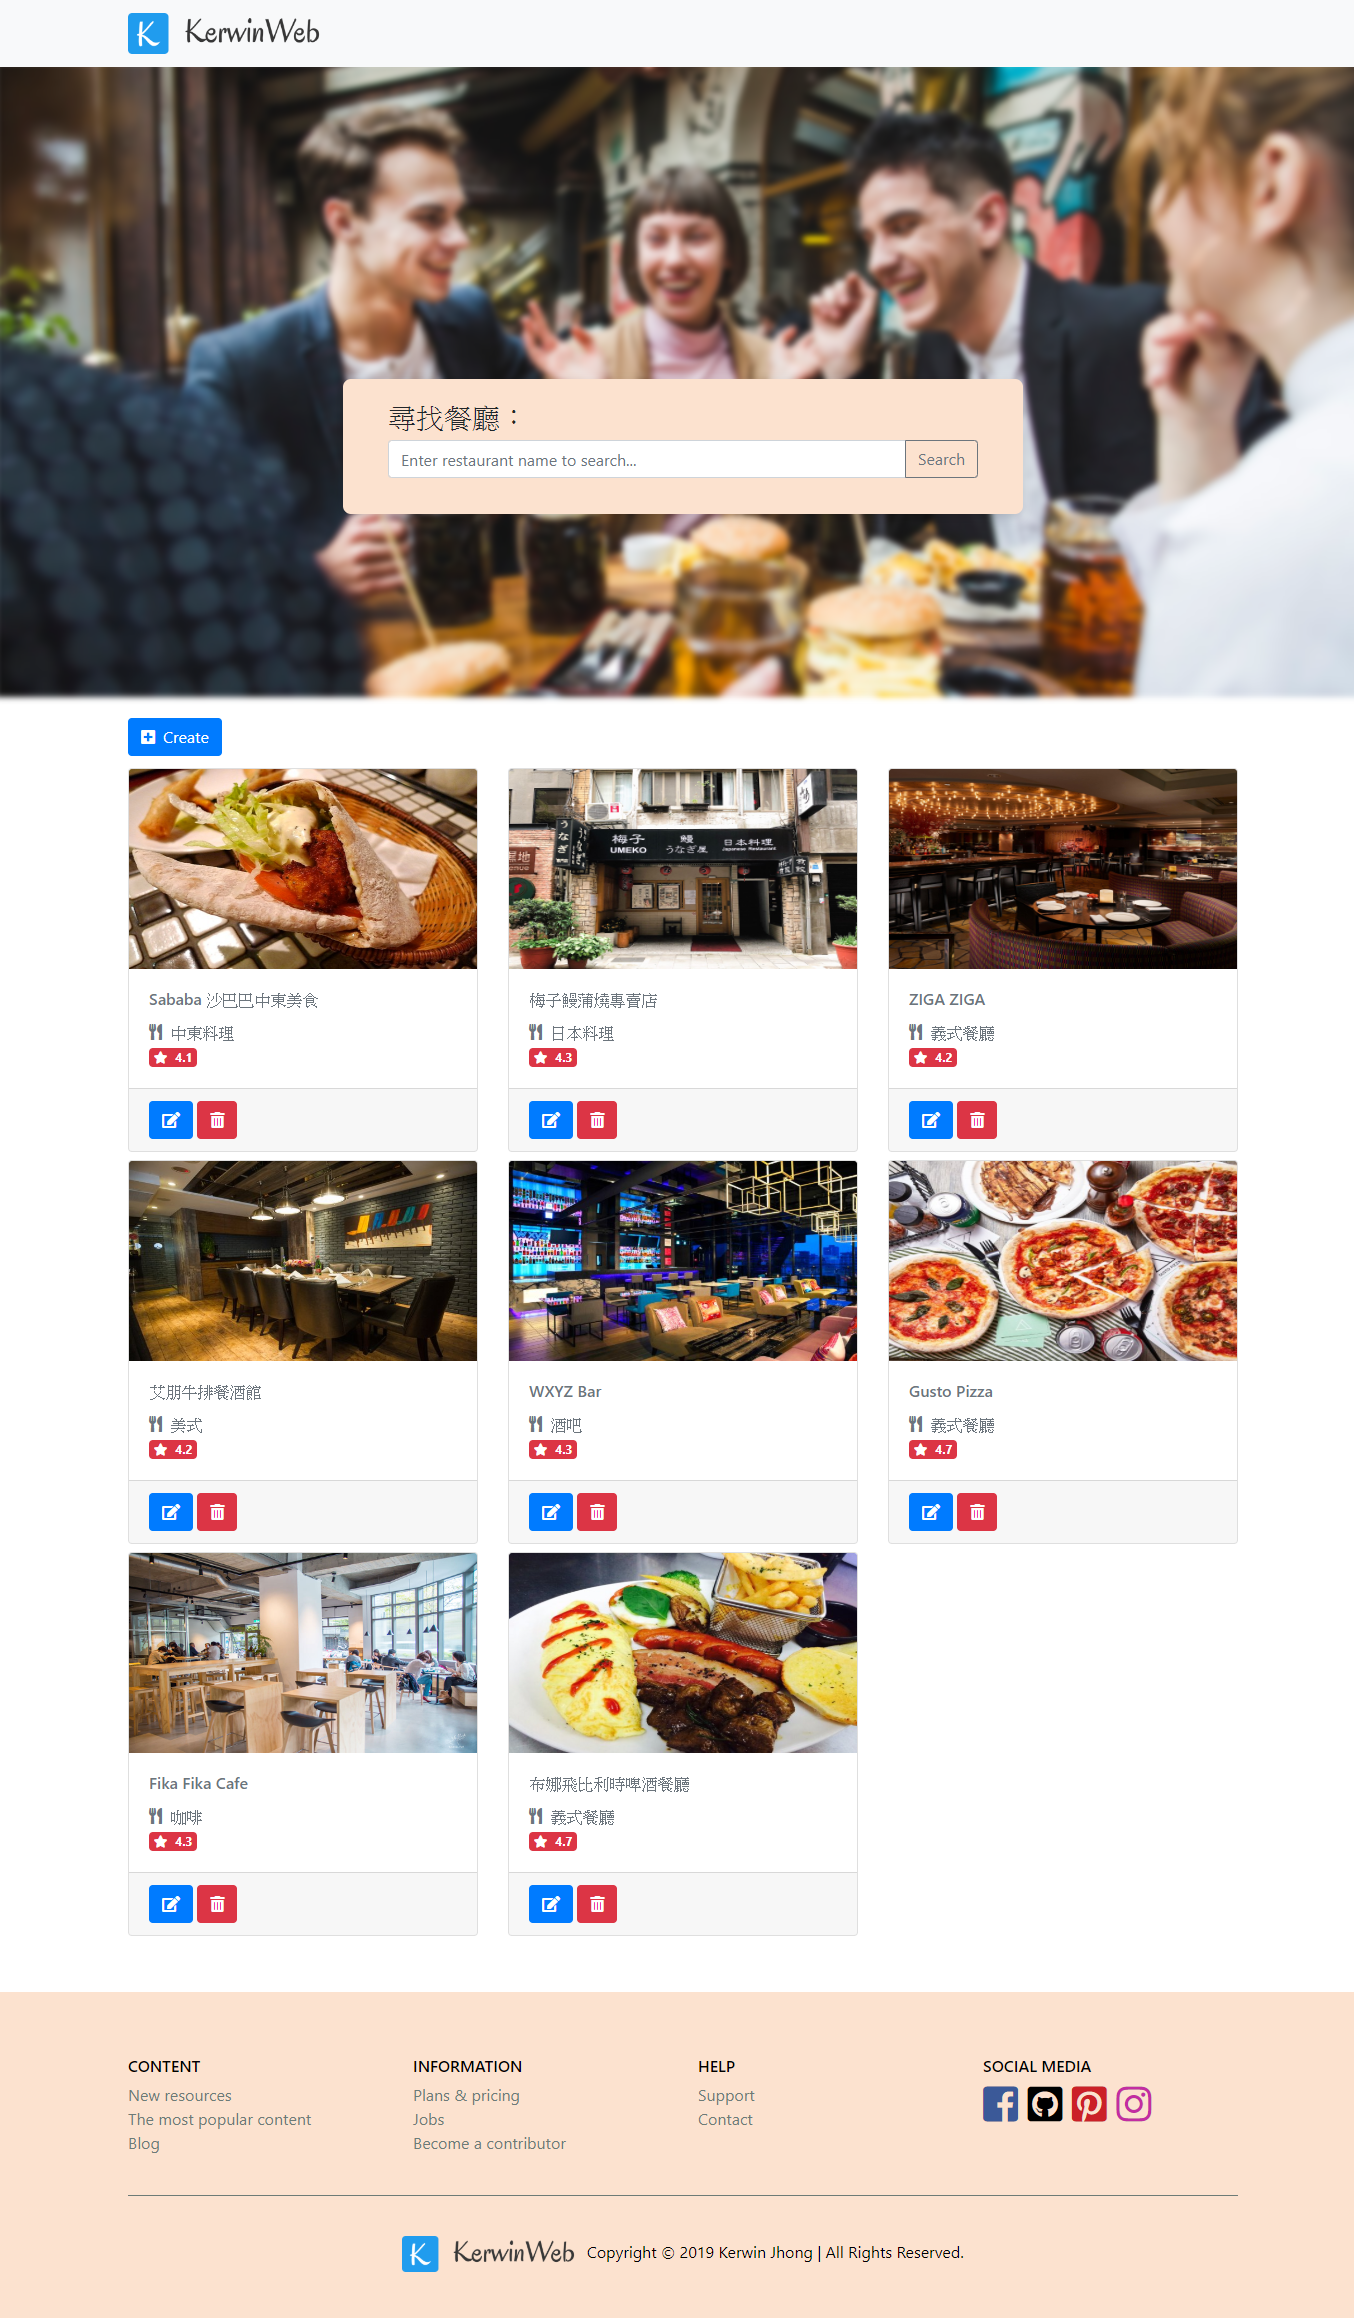
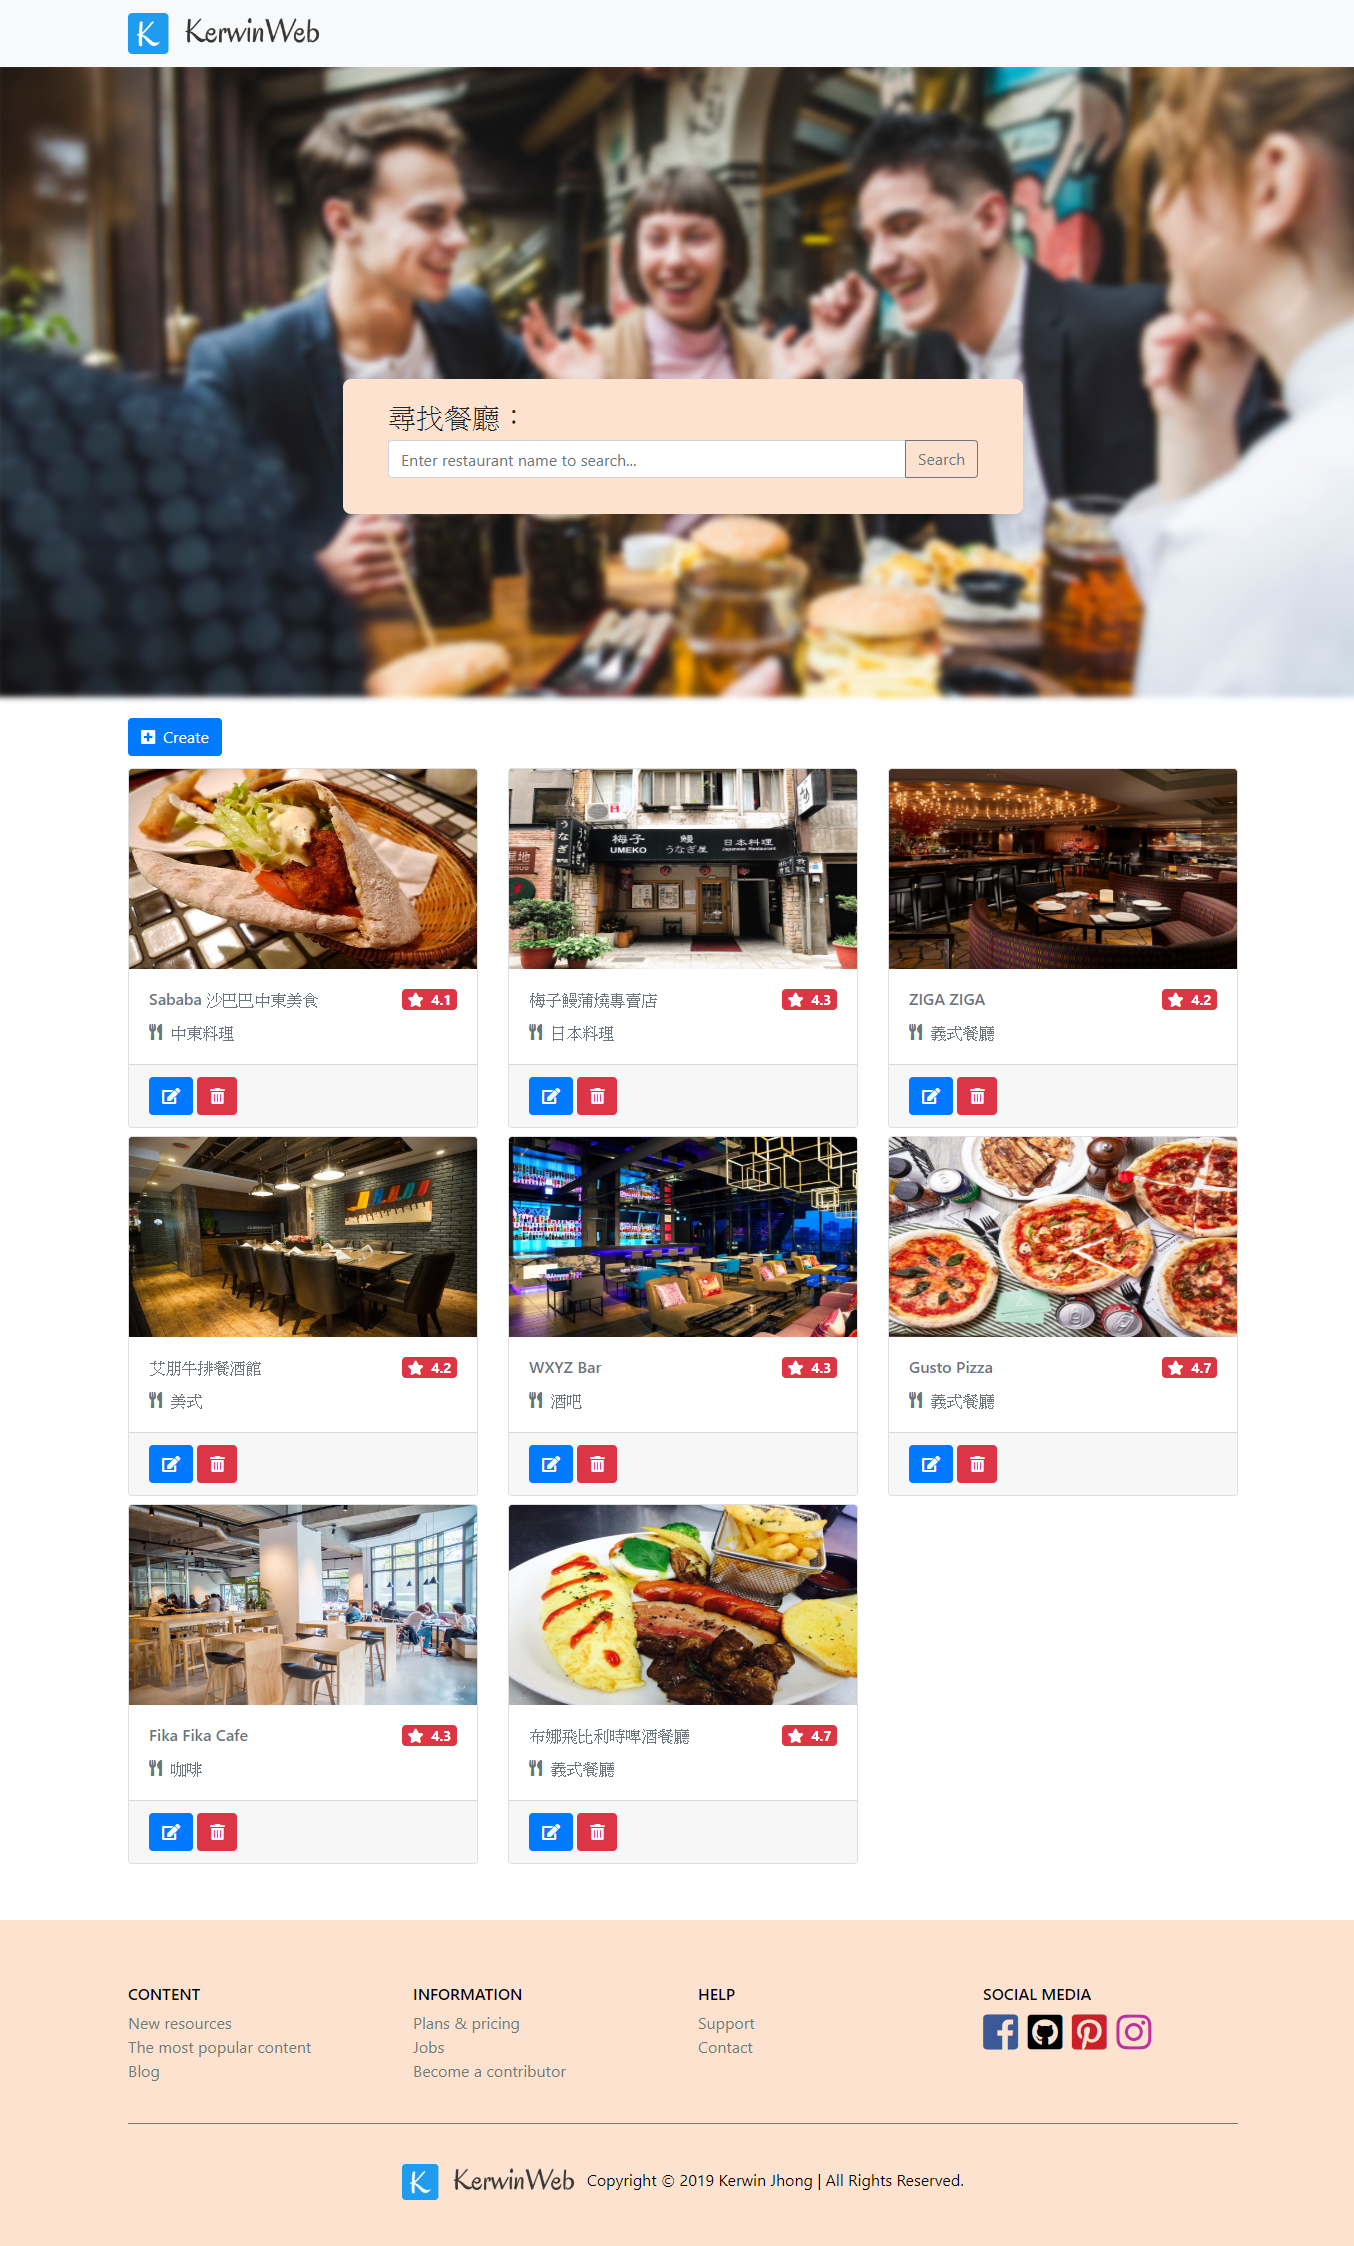
updata

diff --git a/public/stylesheets/style.css b/public/stylesheets/style.css
@@ -3,6 +3,19 @@
     top: 113vh;
 }
 
+.detail i {
+    width: 18px;
+    height: 18px;
+}
+
+.index_rating {
+    font-size: 14px;
+}
+
+.rating {
+    font-size: 14px;
+}
+
 #addpage {
     margin: 0 auto;
     max-width: 680px;
@@ -11,8 +24,8 @@
     padding: 20px 30px;
     border: 0;
     margin-top: -95vh;
-    margin-bottom: 40vh;
     box-shadow: 0 3px 10px rgba(0, 0, 0, 0.1);
+    margin-bottom: 30px;
 }
 
 #addpage input {
@@ -37,7 +50,8 @@
     border-radius: 8px;
     padding: 20px 30px;
     border: 0;
-    margin-top: -560px;
+    margin-top: -90vh;
+    margin-bottom: 50px;
     box-shadow: 0 3px 10px rgba(0, 0, 0, 0.1);
 }
 
@@ -56,6 +70,10 @@
 .boss,
 .you {
     width: 340px;
+}
+
+#data-panel {
+    margin-bottom: 30px;
 }
 
 footer {

diff --git a/README.md b/README.md
@@ -1,0 +1,36 @@
+# 我的餐廳清單
+運用node.js和express進行開發，並連接Mongodb進行CRUD功能。
+
+## 安裝環境
+
++ Node.js v10.15.3
++ Express ^4.17.1
++ Express-handlebars ^3.1.0
++ mongoose ^5.6.11
+
+## 安裝步驟
+1. 下載restaurant_list資料夾，並輸入以下指令下載
+```
+$ git clone https://github.com/KerwinJhong/S4_A9_Restaurant.git
+```
+2. 從終端機安裝npm套件，輸入以下指令
+```
+$ npm install
+```
+3. 執行專案
+```
+$ npm run dev
+```
+4. 輸入網址並呈現我的餐廳清單介面
+```
+http://localhost:3000
+```
+
+## 專案內容
++ 餐廳所有清單
+![image](https://github.com/KerwinJhong/S4_A9_Restaurant/blob/master/Restaurant.png)
+
+
+## 作者
+[Kerwin Jhong](https://github.com/KerwinJhong)
+
